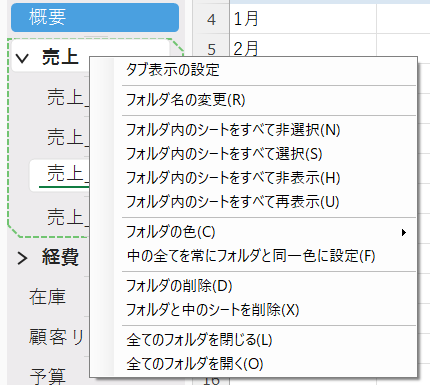
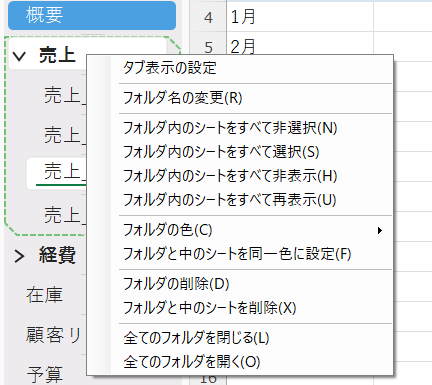
「中の全てを常にフォルダと同一色に設定」の名称を「フォルダと中のシートを同一色に設定」に変える (12.238)

diff --git a/VerticalSheetTabs/TabPaneControl.cs b/VerticalSheetTabs/TabPaneControl.cs
@@ -196,7 +196,7 @@ namespace VerticalSheetTabs
             var fHide = FolderItem("フォルダ内のシートをすべて非表示(&H)", "hide");
             var fUnhide = FolderItem("フォルダ内のシートをすべて再表示(&U)", "unhide");
             var fColor = PaletteItem("フォルダの色(&C)", c => { if (FolderColorRequested != null) FolderColorRequested(_strip.SelectedFolders(), c); });
-            var fSyncColor = FolderItem("中の全てを常にフォルダと同一色に設定(&F)", "synccolor");
+            var fSyncColor = FolderItem("フォルダと中のシートを同一色に設定(&F)", "synccolor");
             var fCloseAll = FolderItem("全てのフォルダを閉じる(&L)", "closeall");
             var fOpenAll = FolderItem("全てのフォルダを開く(&O)", "openall");
             var folderSettings = new ToolStripMenuItem("タブ表示の設定");

diff --git a/VerticalSheetTabs/TabStrip.cs b/VerticalSheetTabs/TabStrip.cs
@@ -2408,7 +2408,7 @@ namespace VerticalSheetTabs
         // The text of the tip of the badge under the pointer (null = none).
         private string BadgeTipAt(int index, Point p)
         {
-            if (PaintCanHit(index, p)) return "中の全てを常にフォルダと同一色 (クリック: フォルダの色、ダブルクリック: その他の色)";
+            if (PaintCanHit(index, p)) return "フォルダと中のシートを同一色に設定 (クリック: フォルダの色、ダブルクリック: その他の色)";
             if (index < 0 || index >= _rows.Count || _shownBadges == BadgeKinds.None) return null;
             foreach (RowBadgeSpec s in RowBadges(_rows[index], RowRect(index)))
             {

diff --git a/Agents.md b/Agents.md
@@ -26,7 +26,7 @@
 | フォルダの保存 | ブックのカスタムXMLパート。シートの識別は、隠しカスタムプロパティ `VTab.Id` (`CodeName` は使わない) | 12.8 |
 | フォルダの選択 | フォルダの行のクリックで、フォルダだけを選択 / 解除する。中のシートは、Excelで選択されない | 12.19 |
 | フォルダの色 | フォルダの行全体に付ける (左端の帯ではない)。シートには反映しない | 12.19 |
-| フォルダの一括操作 | 名前の変更 / すべて非選択 / すべて選択 / すべて非表示 / すべて再表示 / フォルダの色 / 中の全てを常にフォルダと同一色に設定 (ON/OFF、チェックマーク) / フォルダの削除 / フォルダと中のシートを削除 / 全てのフォルダを閉じる / 全てのフォルダを開く。「保護」、「移動またはコピー」、「フォルダと中のシートの色」、「中の全てを選択中シートと同一色に変更」は、削除した | 12.12、12.28 から 12.31、12.39、12.65、12.66、12.80、12.82 |
+| フォルダの一括操作 | 名前の変更 / すべて非選択 / すべて選択 / すべて非表示 / すべて再表示 / フォルダの色 / 中の全てを常にフォルダと同一色に設定 (ON/OFF、チェックマーク。→ 12.216 でペンキ缶の印、12.238 で「フォルダと中のシートを同一色に設定」に名称変更) / フォルダの削除 / フォルダと中のシートを削除 / 全てのフォルダを閉じる / 全てのフォルダを開く。「保護」、「移動またはコピー」、「フォルダと中のシートの色」、「中の全てを選択中シートと同一色に変更」は、削除した | 12.12、12.28 から 12.31、12.39、12.65、12.66、12.80、12.82 |
 | 選択中の行の見た目 | アクティブなシートの印は、設定画面の「アクティブシートのマーカー表示」(下線マーカー / 三角マーカー / 両端バーマーカー / マーカーなし。初期値は下線。ブックごと) で選び、選択デザインと組み合わせて表示する (12.110、12.111、12.116)。三角は、白い縁取りとぼかし (約2px) 付き (12.109)。設定画面の「フォルダ＆シート選択のデザイン」で、8つのタイプから選ぶ (ブックごと。初期値は「標準タイプ」。12.99、12.105、12.107、12.115、12.131)。ストライプタイプは、ななめの縞と枠、クリスタルタイプは、斜めのカット面と、消えていく明るい色 (12.139。12.131 のグラデーション枠を置き換えた)。アクティブシートのマーカーには、チェックバッジマーカー (名前の左に丸いチェック) もある (12.131)。インセットタイプは、行が押し込まれたように凹んで見える (12.115)。グロッシーグラスタイプ、フロストグラス１タイプ、フロストグラス２タイプは、行の上に、半透明のガラスを重ねる (12.105、12.107)。標準タイプは、v1.1.28 までの見た目 (白い塗りと薄い枠、色付きは上が白のグラデーション、アクティブなシートだけに緑の下線)。ダブルフレームタイプは、次の見た目: 影が付き、暗い外枠と白い内枠の二重の枠で囲まれ、アクティブなシート (内容が表示されているシート) だけに、左右の端に、中央を向いた小さな三角が付く (フォルダと、グループの、ほかのシートには、付かない。12.95、12.97)。文字は太字。色付きは、元の色のまま。三角は、行の色の反対色 (色なしの行は、Excelの緑) で、白い縁と、約4pxの白いぼかしが付く。選択中のすべてのフォルダとシートが、同じ見た目 (グループの、アクティブでないシートは、影が弱い) | 12.85、12.91、12.93、12.95、12.97、12.99、12.105、12.107、12.109、12.110、12.111、12.115、12.116 |
 | 開いたフォルダ | 点線で囲む (右上と左下が欠ける)。表示 / 非表示と色の段階 (1から9) は、設定画面で選ぶ | 12.42、12.47、12.48、12.50 |
 | 「+」ボタン | 縦タブの下端に常に固定。選択が閉じたフォルダの中だけのときは、一番下に追加 | 12.17、12.50 |
@@ -2724,3 +2724,9 @@ gitGraph
 
 - 12.236 (フォルダの行の、シート数のバッジと進捗の丸薬の間に、すき間を空ける) を含めて、バージョンを 1.1.97.0 に上げ、ClickOnce のインストーラを作り直した (`develop` と `master` に反映し、`v1.1.97` のタグを付けた。配布用zip: `配布用zip\VerticalSheetTabs_v1.1.97.zip`)
 - 成果物: `VerticalSheetTabs\bin\Release\app.publish\` (`setup.exe`、`VerticalSheetTabs.vsto`、`Application Files\VerticalSheetTabs_1_1_97_0\`)。インストールの実機確認は、未実施
+
+### 12.238 変更: 「中の全てを常にフォルダと同一色に設定」の名称を「フォルダと中のシートを同一色に設定」に
+
+- ユーザーの要望により、フォルダの右クリックメニューの項目 (`TabPaneControl`。アクセスキーは &F のまま) と、ペンキ缶の印のポップアップ (ツールチップ。`TabStrip.BadgeTipAt`。「フォルダと中のシートを同一色に設定 (クリック: フォルダの色、ダブルクリック: その他の色)」) の文言を変えた。動作、保存 (`syncColor`) は、変えていない
+- README の、この項目の名前 (3か所) を合わせ、フォルダのメニューの画像 (`docs/images/menu_folder.png`) を、実機で撮り直した。この文書 (Agents.md) の、これまでの記録の中の旧名称は、経緯として、そのまま残す (0.2 の表には、注記を付けた)
+- 実機で確認 (拡大率125%): フォルダの右クリックメニューと、ペンキ缶の印のポップアップに、新しい文言が出る

diff --git a/README.md b/README.md
@@ -84,7 +84,7 @@
 - フォルダの `>` / `∨` を押すと、**開閉**できます。閉じると、中のシートは縦タブから隠れます
 - フォルダは**ドラッグで移動**できます。中のシートも、一緒に動きます。Ctrl+ドラッグで、フォルダごとコピーできます
 - シートをフォルダの中へ、外へ、**ドラッグするだけ**で、出し入れできます
-- フォルダにも**色**が付けられます。「中の全てを常にフォルダと同一色に設定」をONにすると、フォルダの色が、中のシートにも広がり、新しく入ったシートにも、自動で付きます。ONのフォルダには、行の右端に、**傾いたペンキ缶と青いしずく**の印が付きます ([1.9](#19-探すたどる状態を見る-検索履歴バッジ進捗)の画像にも写っています)。この印を**クリック**すると、「フォルダの色」のパレットが出て、**ダブルクリック**すると、「その他の色」の「色の設定」画面が出ます
+- フォルダにも**色**が付けられます。「フォルダと中のシートを同一色に設定」をONにすると、フォルダの色が、中のシートにも広がり、新しく入ったシートにも、自動で付きます。ONのフォルダには、行の右端に、**傾いたペンキ缶と青いしずく**の印が付きます ([1.9](#19-探すたどる状態を見る-検索履歴バッジ進捗)の画像にも写っています)。この印を**クリック**すると、「フォルダの色」のパレットが出て、**ダブルクリック**すると、「その他の色」の「色の設定」画面が出ます
 - 「フォルダ内のシートをすべて選択」で、フォルダ内のシートを、グループ選択。そのまま、まとめて保護、移動、コピーができます
 - フォルダの順序は、Excelのシートの並びにも反映されます (横タブでも、同じ順に並びます)
 - フォルダが**1つでもある**と、縦タブの上端に「**全開**」「**全閉**」のボタンが出ます。押すと、すべてのフォルダが、まとめて開く / 閉じます。フォルダが無くなると、ボタンも消えます
@@ -477,8 +477,8 @@ flowchart LR
 | フォルダ内のシートをすべて非選択 | フォルダ内のシートを、選択から外す |
 | フォルダ内のシートをすべて選択 | フォルダ内のシートを、グループ選択する (そのあと、シートの右クリックメニューの「シートの保護」、「移動またはコピー」で、まとめて操作できます) |
 | フォルダ内のシートをすべて非表示 / 再表示 | まとめて隠す / 出す |
-| フォルダの色 | フォルダの行の色を付ける。中のシートの色は変わらない (「中の全てを常にフォルダと同一色に設定」がONのフォルダでは、中のシートにも、同じ色が付く)。「その他の色」は、Excelの「色の設定」画面が開く |
-| 中の全てを常にフォルダと同一色に設定 | 選ぶたびに、ON / OFF が切り替わる。ONにすると、そのときに中のすべてのシートへ、フォルダの色を付ける。ONのフォルダは、行の右端に、傾いたペンキ缶と青いしずくの印が付き、**そのあとも、フォルダの色を変えると中のシートの色も変わり、新しく入ったシートにも、自動で、フォルダの色が付く**。OFFに戻しても、シートの色は元に戻らない。印をクリックすると「フォルダの色」のパレット、ダブルクリックすると「その他の色」の「色の設定」画面が出る (選択中のフォルダの印なら、選択中のフォルダすべてに、それ以外は、そのフォルダに付く) |
+| フォルダの色 | フォルダの行の色を付ける。中のシートの色は変わらない (「フォルダと中のシートを同一色に設定」がONのフォルダでは、中のシートにも、同じ色が付く)。「その他の色」は、Excelの「色の設定」画面が開く |
+| フォルダと中のシートを同一色に設定 | 選ぶたびに、ON / OFF が切り替わる。ONにすると、そのときに中のすべてのシートへ、フォルダの色を付ける。ONのフォルダは、行の右端に、傾いたペンキ缶と青いしずくの印が付き、**そのあとも、フォルダの色を変えると中のシートの色も変わり、新しく入ったシートにも、自動で、フォルダの色が付く**。OFFに戻しても、シートの色は元に戻らない。印をクリックすると「フォルダの色」のパレット、ダブルクリックすると「その他の色」の「色の設定」画面が出る (選択中のフォルダの印なら、選択中のフォルダすべてに、それ以外は、そのフォルダに付く) |
 | フォルダの削除 | フォルダだけ削除する (中のシートは、フォルダの外に残ります) |
 | フォルダと中のシートを削除 | フォルダと、中のシートを削除する (確認あり) |
 | 全てのフォルダを閉じる / 全てのフォルダを開く | 縦タブにある**すべてのフォルダ**を、まとめて閉じる / 開く (選択しているフォルダに関係なく、すべてが対象) |
